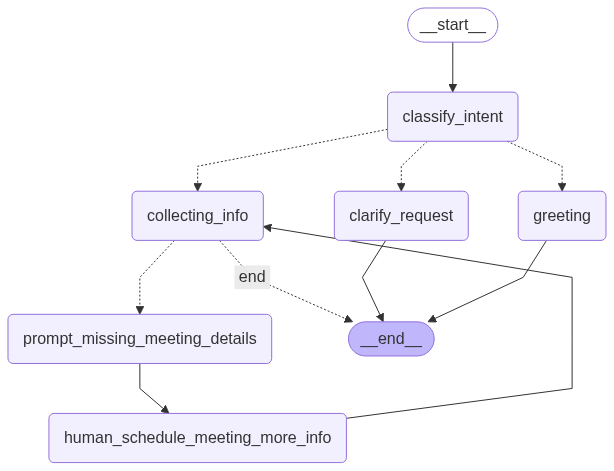
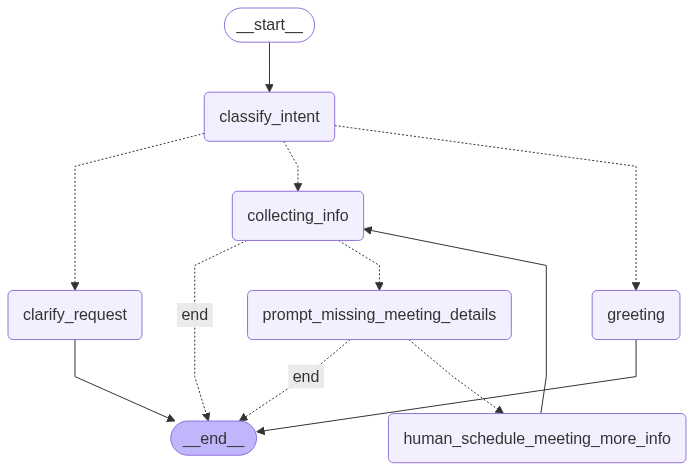
feat: remove Command(goto=Node) + rename missing_mdetails to prompt_missing_details

diff --git a/src/meetingmuse/graph.py b/src/meetingmuse/graph.py
@@ -12,7 +12,7 @@ from meetingmuse.nodes.classify_intent_node import ClassifyIntentNode
 from meetingmuse.nodes.greeting_node import GreetingNode
 from meetingmuse.nodes.collecting_info_node import CollectingInfoNode
 from meetingmuse.nodes.human_schedule_meeting_more_info_node import HumanScheduleMeetingMoreInfoNode
-from meetingmuse.nodes.missing_meeting_details_node import PromptMissingMeetingDetailsNode
+from meetingmuse.nodes.prompt_missing_meeting_details_node import PromptMissingMeetingDetailsNode
 from meetingmuse.services.routing_service import ConversationRouter
 
 
@@ -64,7 +64,10 @@ class GraphBuilder:
                 NodeName.PROMPT_MISSING_MEETING_DETAILS: NodeName.PROMPT_MISSING_MEETING_DETAILS,
             }
         )        
-        graph_builder.add_edge(self.prompt_missing_meeting_details_node.node_name, self.human_schedule_meeting_more_info_node.node_name)
+        graph_builder.add_conditional_edges(self.prompt_missing_meeting_details_node.node_name, self.prompt_missing_meeting_details_node.get_next_node, {
+            NodeName.END: END,
+            NodeName.HUMAN_SCHEDULE_MEETING_MORE_INFO: self.human_schedule_meeting_more_info_node.node_name,
+        })
         graph_builder.add_edge(self.human_schedule_meeting_more_info_node.node_name, self.collecting_info_node.node_name)
         # Add edges to END for completion
         graph_builder.add_edge(self.greeting_node.node_name, END)

diff --git a/src/meetingmuse/nodes/prompt_missing_meeting_details_node.py b/src/meetingmuse/nodes/prompt_missing_meeting_details_node.py
@@ -11,15 +11,20 @@ class PromptMissingMeetingDetailsNode(BaseNode):
           self.meeting_service = meeting_service
           self.logger = logger
 
+    def get_next_node(self, state: MeetingMuseBotState) -> NodeName:
+        if not state.ai_prompt_input:
+            return NodeName.END
+        return NodeName.HUMAN_SCHEDULE_MEETING_MORE_INFO
+    
     def node_action(self, state: MeetingMuseBotState) -> MeetingMuseBotState:
         self.logger.info(f"Entering {self.node_name} node...")
 
         missing_fields = self.meeting_service.get_missing_required_fields(state.meeting_details)
 
         if not missing_fields:
-            # NOTE: this is an error in graph, should not happen
+            # NOTE: this is an error in graph, should not happen!
             self.logger.error(f"Meeting details are complete, but node {self.node_name} was called")
-            return Command(goto=NodeName.END)
+            return state
 
         try:
             response = self.meeting_service.invoke_missing_fields_prompt(state).content

diff --git a/tests/scripts/run_node_with_graph.py b/tests/scripts/run_node_with_graph.py
@@ -13,7 +13,7 @@ from meetingmuse.nodes.clarify_request_node import ClarifyRequestNode
 from meetingmuse.nodes.classify_intent_node import ClassifyIntentNode
 from meetingmuse.nodes.greeting_node import GreetingNode
 from meetingmuse.nodes.collecting_info_node import CollectingInfoNode
-from meetingmuse.nodes.missing_meeting_details_node import PromptMissingMeetingDetailsNode
+from meetingmuse.nodes.prompt_missing_meeting_details_node import PromptMissingMeetingDetailsNode
 from meetingmuse.services.intent_classifier import IntentClassifier
 from meetingmuse.services.meeting_details_service import MeetingDetailsService
 from meetingmuse.services.routing_service import ConversationRouter

diff --git a/tests/scripts/generate_graph.py b/tests/scripts/generate_graph.py
@@ -9,7 +9,7 @@ from meetingmuse.nodes.clarify_request_node import ClarifyRequestNode
 from meetingmuse.nodes.classify_intent_node import ClassifyIntentNode
 from meetingmuse.nodes.greeting_node import GreetingNode
 from meetingmuse.nodes.collecting_info_node import CollectingInfoNode
-from meetingmuse.nodes.missing_meeting_details_node import PromptMissingMeetingDetailsNode
+from meetingmuse.nodes.prompt_missing_meeting_details_node import PromptMissingMeetingDetailsNode
 from meetingmuse.services.intent_classifier import IntentClassifier
 from meetingmuse.services.meeting_details_service import MeetingDetailsService
 from meetingmuse.services.routing_service import ConversationRouter

diff --git a/tests/scripts/run_chatbot.py b/tests/scripts/run_chatbot.py
@@ -6,7 +6,7 @@ from meetingmuse.models.state import MeetingMuseBotState
 from meetingmuse.graph import GraphBuilder
 from meetingmuse.nodes.collecting_info_node import CollectingInfoNode
 from meetingmuse.nodes.human_schedule_meeting_more_info_node import HumanScheduleMeetingMoreInfoNode
-from meetingmuse.nodes.missing_meeting_details_node import PromptMissingMeetingDetailsNode
+from meetingmuse.nodes.prompt_missing_meeting_details_node import PromptMissingMeetingDetailsNode
 from meetingmuse.services.meeting_details_service import MeetingDetailsService
 from meetingmuse.services.routing_service import ConversationRouter
 from meetingmuse.utils.logger import Logger

diff --git a/tests/meetingmuse/nodes/test_missing_meeting_details_node.py b/tests/meetingmuse/nodes/test_missing_meeting_details_node.py
@@ -2,7 +2,7 @@ import pytest
 from unittest.mock import Mock
 from langgraph.types import Command
 
-from meetingmuse.nodes.missing_meeting_details_node import PromptMissingMeetingDetailsNode
+from meetingmuse.nodes.prompt_missing_meeting_details_node import PromptMissingMeetingDetailsNode
 from meetingmuse.models.state import MeetingMuseBotState
 from meetingmuse.models.meeting import MeetingFindings
 from meetingmuse.models.node import NodeName

diff --git a/src/meetingmuse/models/state.py b/src/meetingmuse/models/state.py
@@ -35,5 +35,8 @@ class MeetingMuseBotState(BaseModel):
     # Information about the meeting being scheduled
     meeting_details: MeetingFindings = Field(default_factory=MeetingFindings)
 
-    # Human input
+    # Prompt input for Human nodes
     ai_prompt_input: Optional[str] = None
+
+    # Human input
+    human_input: Optional[str] = None
